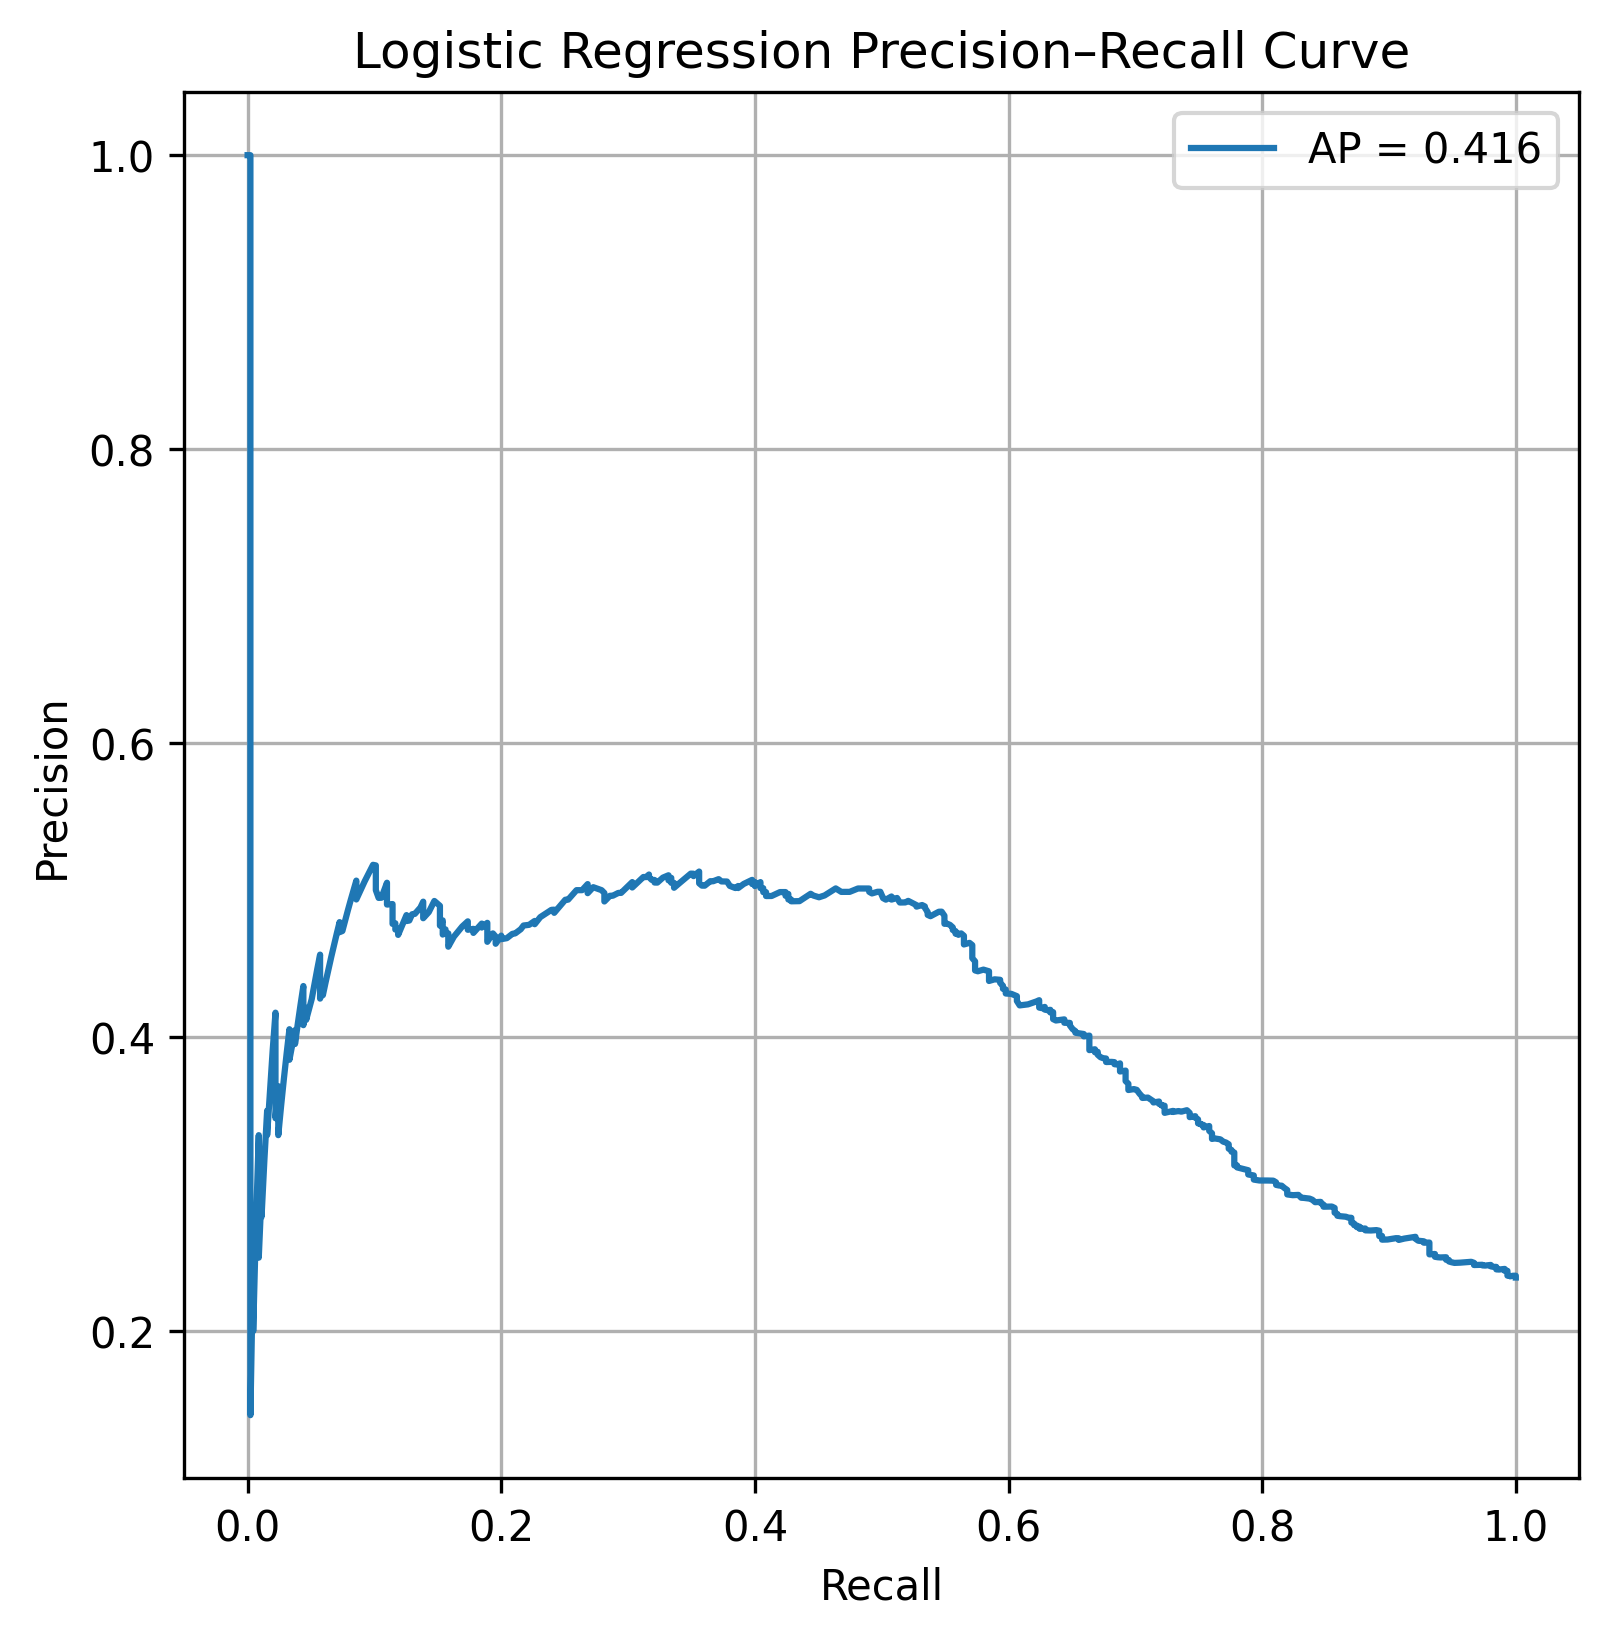
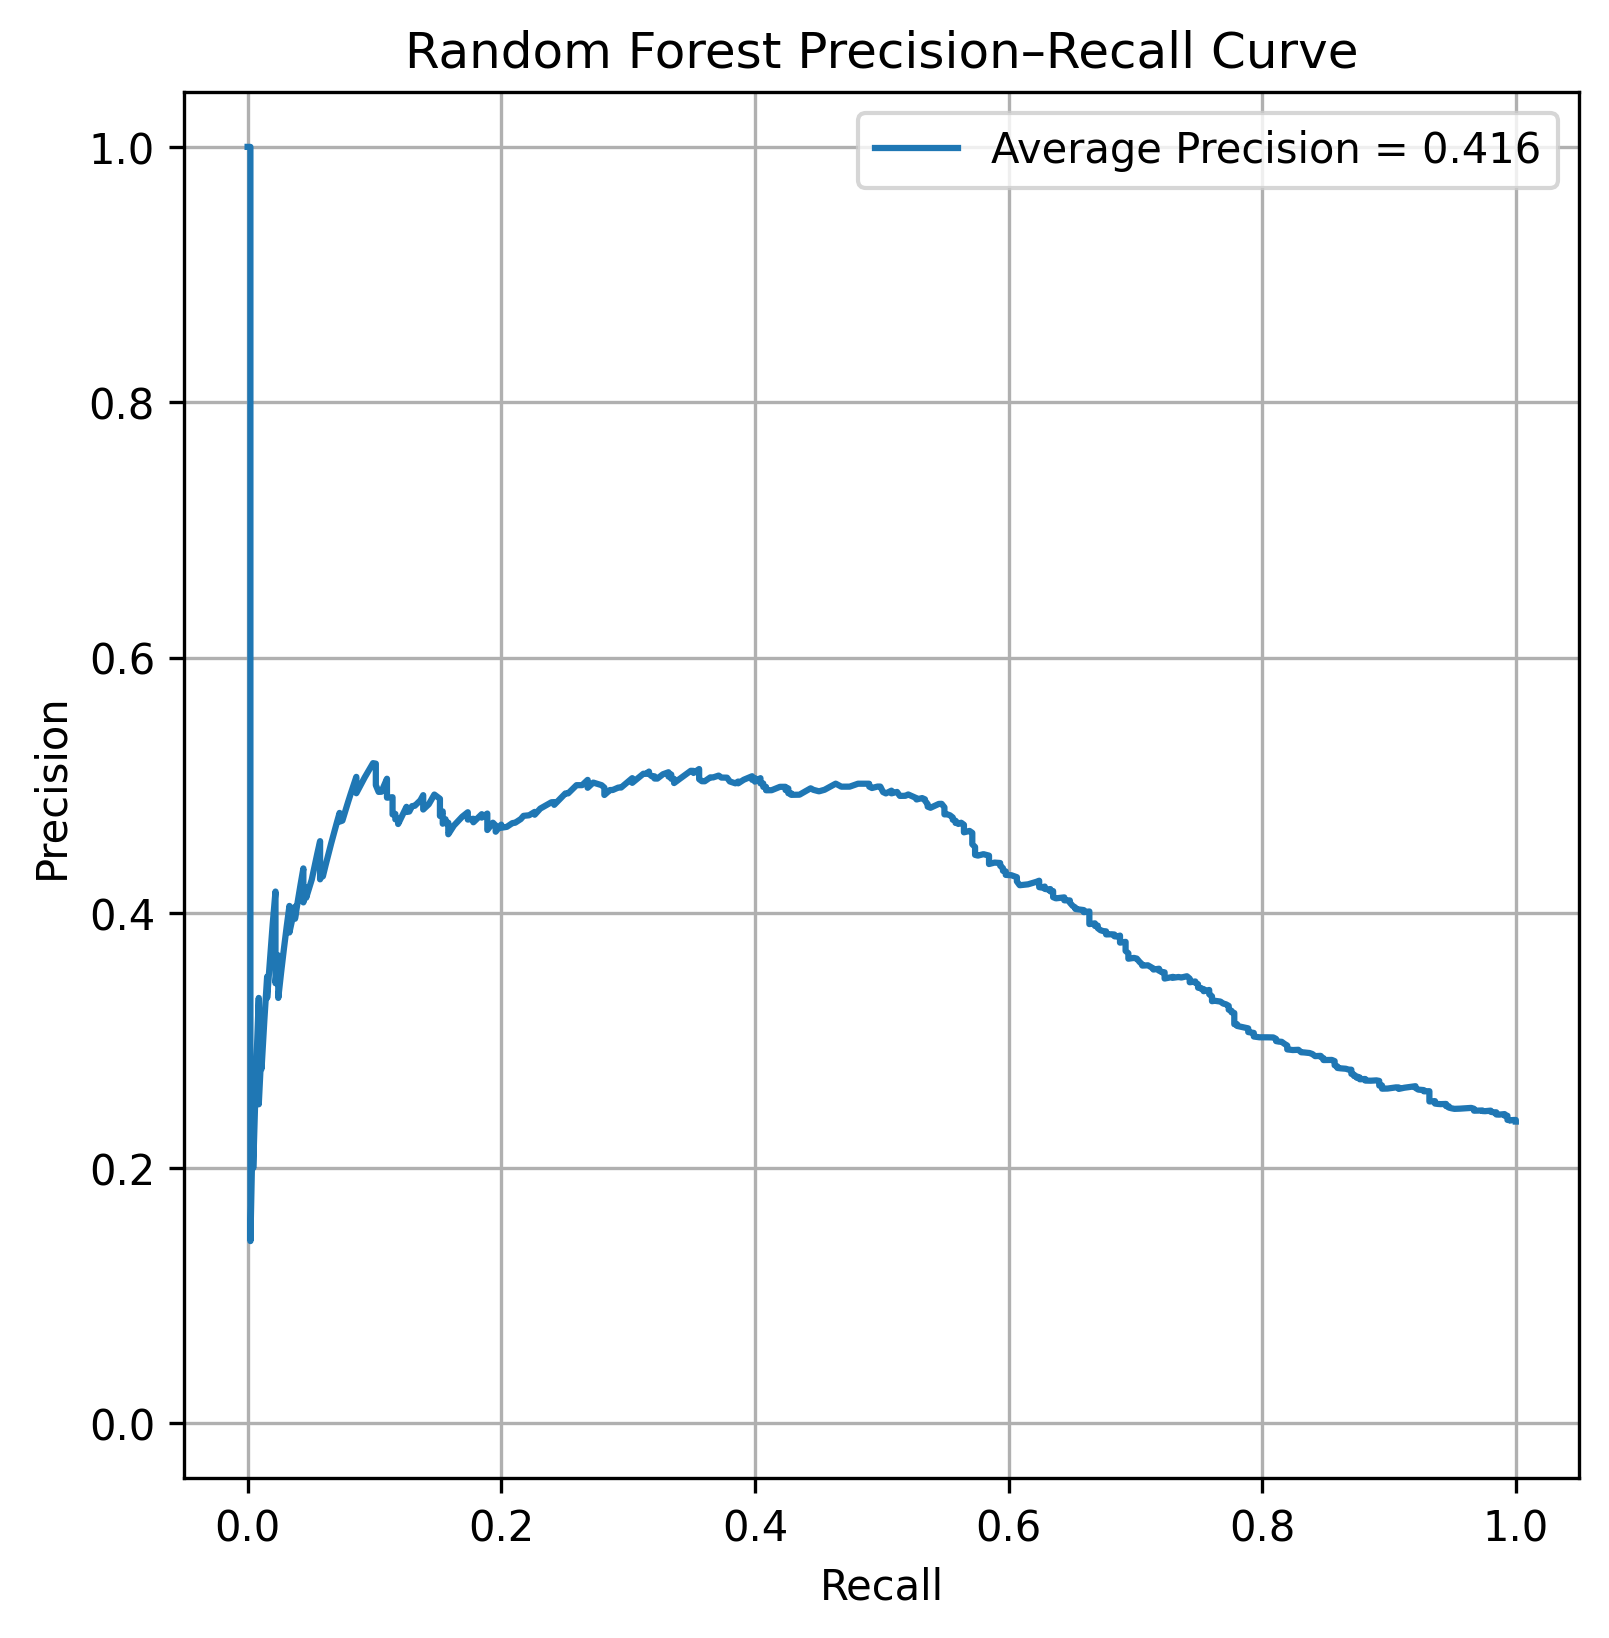
Modified PR curve to start y-axis at 0, and add a little buffer above and below the 0/1 maximum and minimum

diff --git a/scripts/models/random_forest.py b/scripts/models/random_forest.py
@@ -205,6 +205,12 @@ def _generate_precision_recall_curve_plot(y, y_pred):
     plt.title("Random Forest Precision–Recall Curve")
     plt.legend()
     plt.grid(True)
+    x_min, x_max = plt.xlim()
+    y_min, y_max = plt.ylim()
+    x_pad = x_max - 1
+    y_pad = y_max - 1
+    plt.xlim(-x_pad, 1 + x_pad)
+    plt.ylim(-y_pad, 1 + y_pad)
     plt.savefig("figures/random_forest_pr_curve.png", dpi=300, bbox_inches="tight")
 
 
